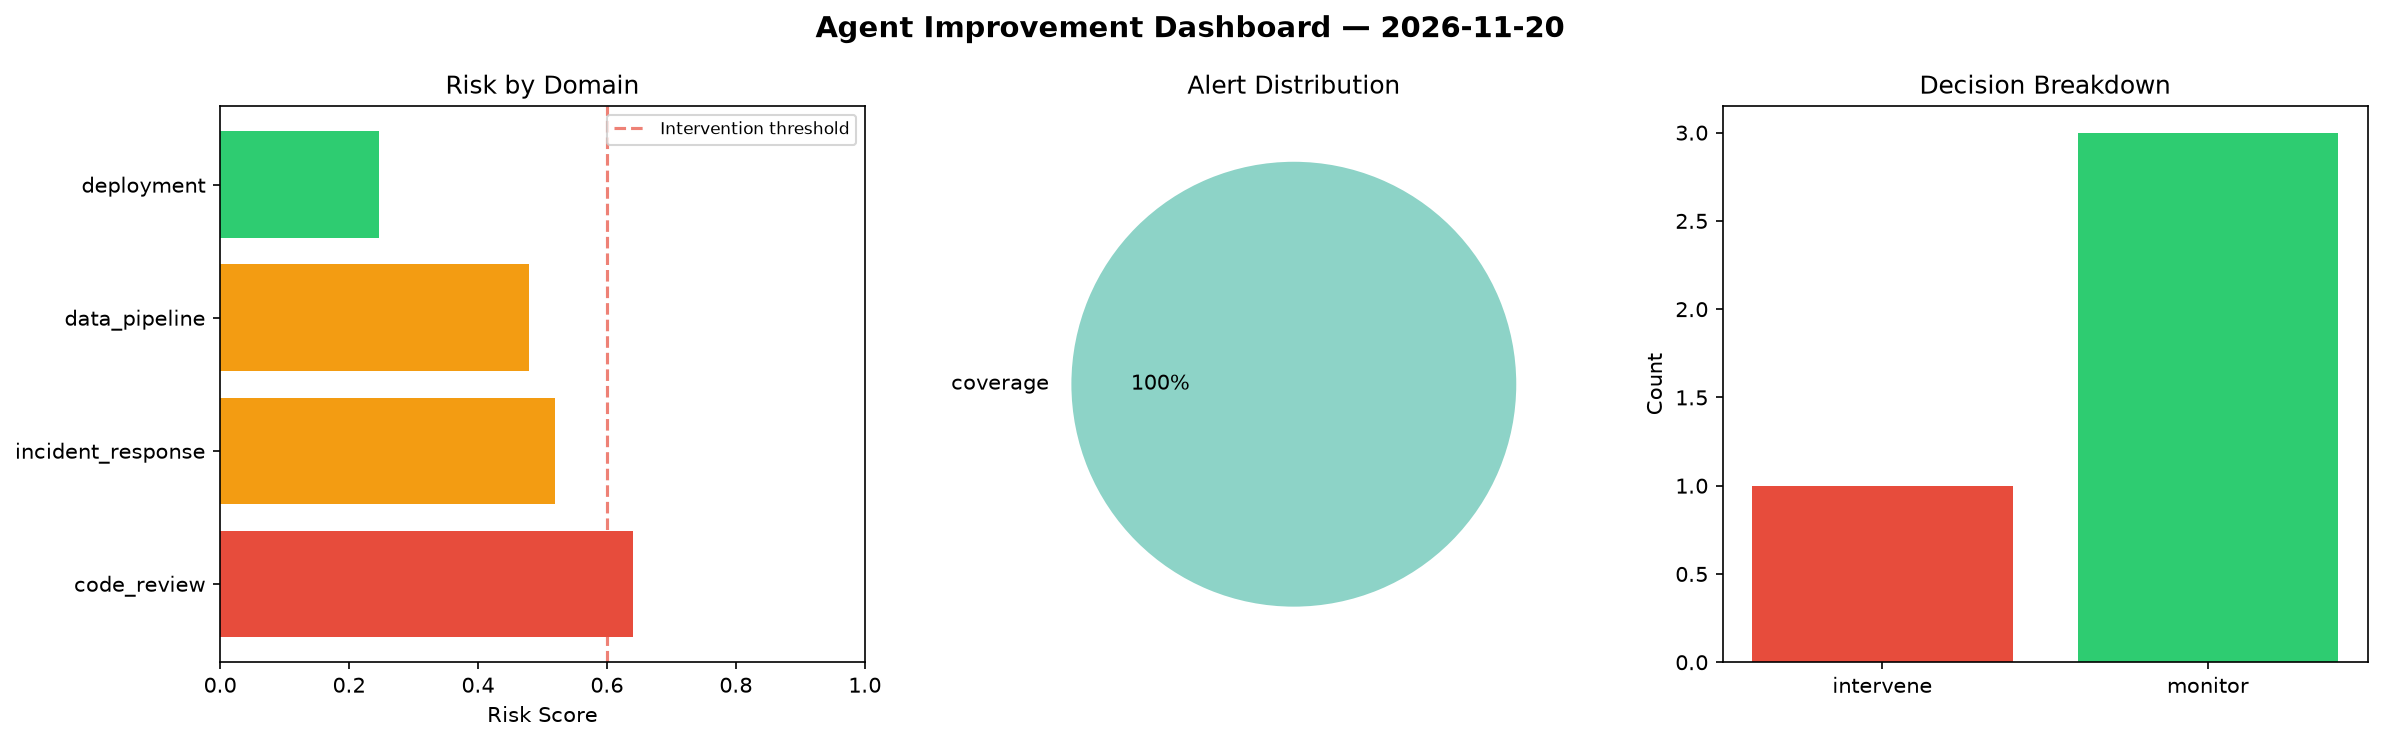
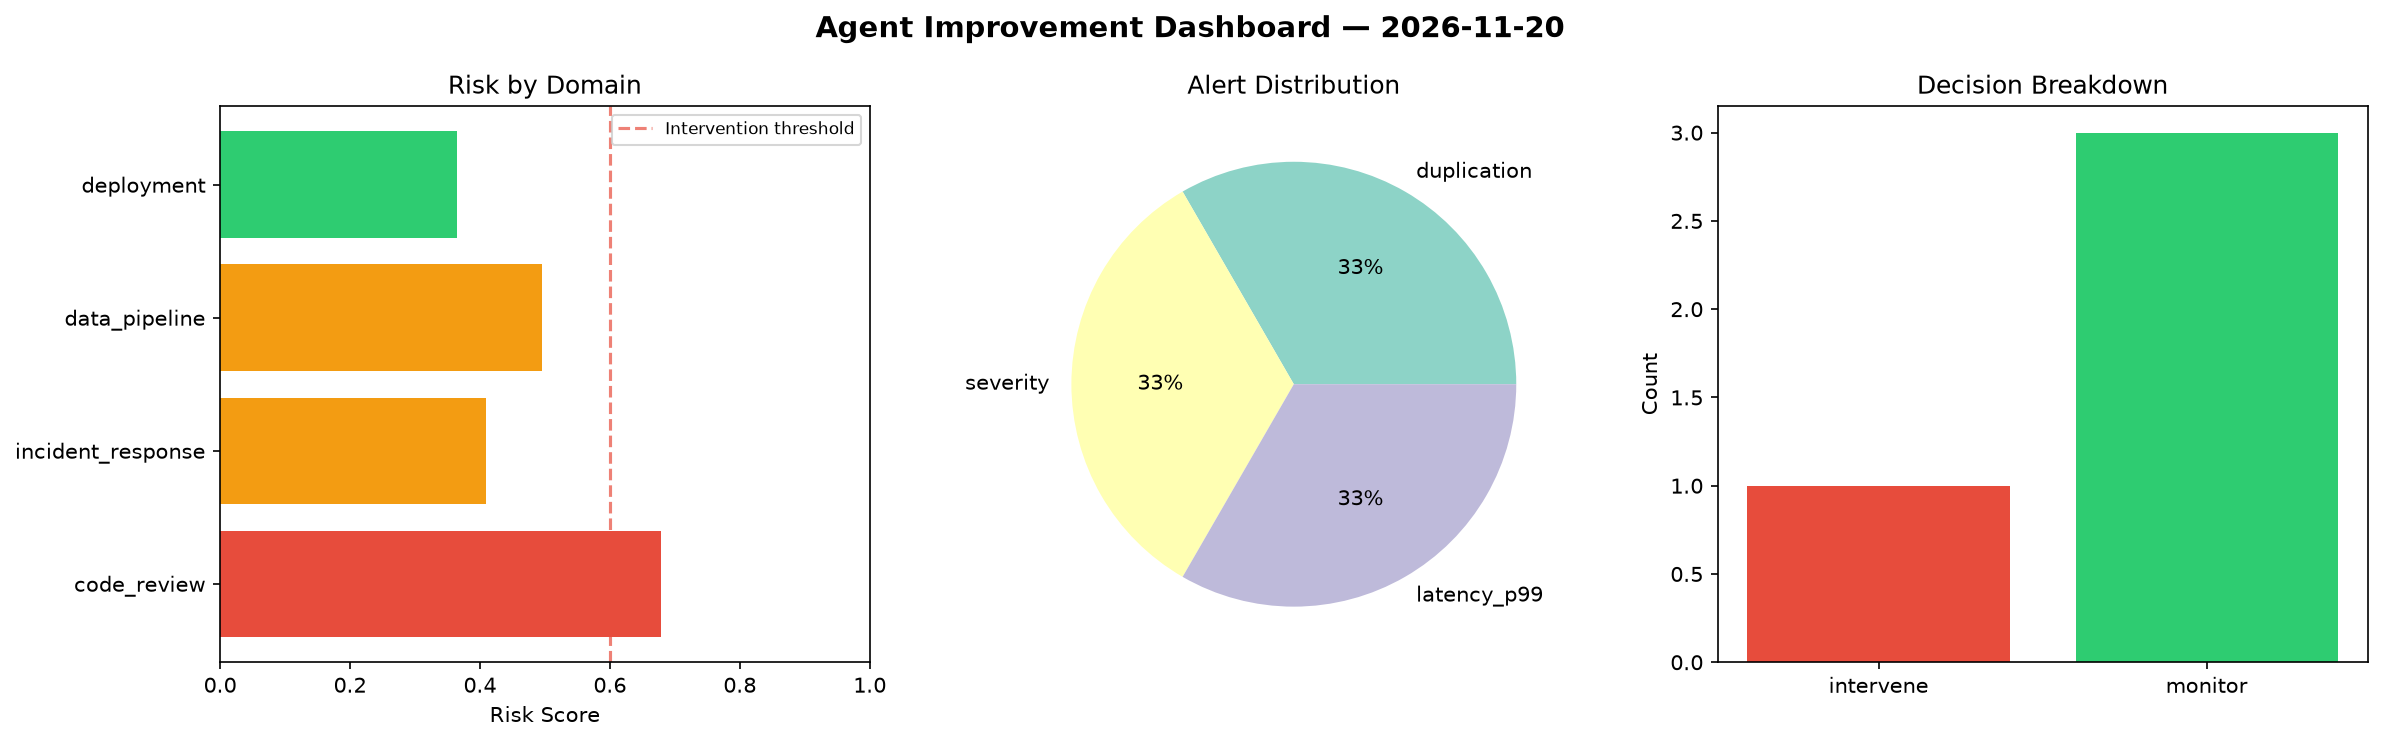
agent-improvement: daily cycle 2026-11-20T09:58

diff --git a/logs/2026-11-20.md b/logs/2026-11-20.md
@@ -1,6 +1,6 @@
 # Agent Improvement Report — 2026-11-20
 
-**Cycle ID:** `5a27c6e1` | **Avg Risk:** 0.4716 | **Interventions:** 1/4
+**Cycle ID:** `05fec7ed` | **Avg Risk:** 0.4869 | **Interventions:** 1/4
 
 ![Dashboard](2026-11-20_dashboard.png)
 
@@ -10,18 +10,18 @@
 
 | Domain | Risk Score | Decision | Alerts |
 |--------|-----------|----------|--------|
-| code_review | 0.6402 | intervene | coverage |
-| incident_response | 0.5202 | monitor | none |
-| data_pipeline | 0.4788 | monitor | none |
-| deployment | 0.2471 | monitor | none |
+| code_review | 0.6781 | intervene | duplication |
+| incident_response | 0.4097 | monitor | severity |
+| data_pipeline | 0.4954 | monitor | none |
+| deployment | 0.3643 | monitor | latency_p99 |
 
 ## Delta vs Yesterday
 
 | Domain | Today | Yesterday | Change |
 |--------|-------|-----------|--------|
-| code_review | 0.6402 | 0.3935 | 📈 62.7% |
-| incident_response | 0.5202 | 0.3146 | 📈 65.4% |
-| data_pipeline | 0.4788 | 0.5164 | 📉 -7.3% |
-| deployment | 0.2471 | 0.5495 | 📉 -55.0% |
+| code_review | 0.6781 | 0.3935 | 📈 72.3% |
+| incident_response | 0.4097 | 0.3146 | 📈 30.2% |
+| data_pipeline | 0.4954 | 0.5164 | 📉 -4.1% |
+| deployment | 0.3643 | 0.5495 | 📉 -33.7% |
 
 **Refinement:** `{'adjustment': 'maintain', 'trend': 'improving', 'window': 4}`
